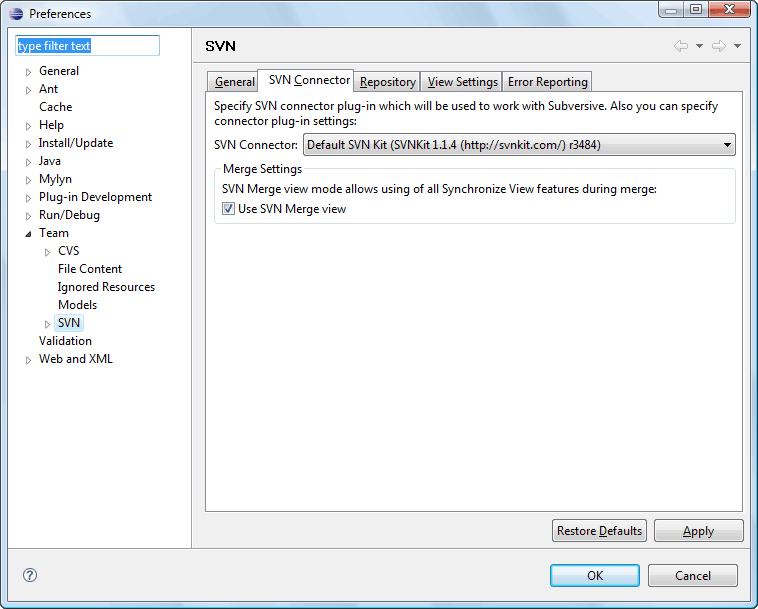
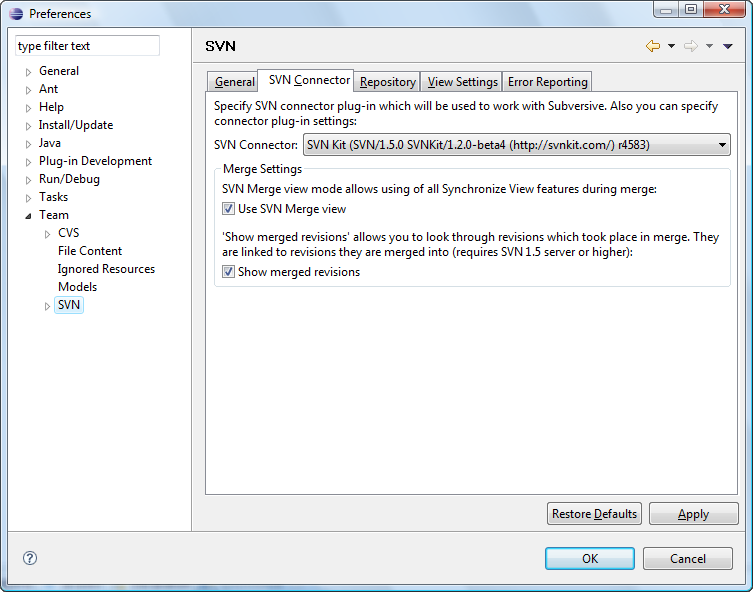
Update help according to plug-in changes (bug 225568) https://bugs.eclipse.org/bugs/show_bug.cgi?id=225568
git-svn-id: https://dev.eclipse.org/svnroot/technology/org.eclipse.subversive/trunk@19876 ee007c2a-0a25-0410-9ab9-bf268980928c

Changed region(s): [[0.0, 0.0, 1.0, 1.0], [0.5193, 0.973, 0.6414, 1.0]]

diff --git a/org.eclipse.team.svn.help/teamSupport/merge_dialog.html b/org.eclipse.team.svn.help/teamSupport/merge_dialog.html
@@ -18,35 +18,12 @@
 		</tr>
 	</table>
 <h2>SVN Merge Dialog</h2>
-	<p>This dialog appears when the user clicks on <i>'Team>Merge...'</i> menu item in the pop-up menu of the resource linked with the repository location, <i>'Merge...'</i> menu item of the <i>'SVN main menu group'</i> or on the <i>'Merge...'</i> button on the <i>'SVN Toolbar'</i>. There are Simple and Advanced merge modes. In simple mode the user can merge his local version with some remote one. And in advance mode user can merge his local copy with resources from different URLs. The merge operation in both modes also can be performed with some rage of revisions.</p>
-	<p>This is how the dialog in the Simple mode looks like:</p>
-	<img border = "0" src="../images/merge_simple.png" alt="Merge dialog in a simple mode"/>
-	<br/>
-	<br/>
-	<table cellpadding="5" cellspacing="0" border="1" width="100%">
-		<tr>
-			<td class="header" align ="center" valign="center">Option</td>
-			<td class="header" align ="center" valign="center">Description</td>
-			<td class="header" align ="center" valign="center">Default</td>
-		</tr>
-		<tr>
-			<td align ="center" valign="center">URL</td>
-			<td align ="center" valign="center">Specifies the remote resource location</td>
-			<td align ="center" valign="center">'blank'</td>
-		</tr>
-		<tr>
-			<td align ="center" valign="center">Start revision</td>
-			<td align ="center" valign="center">Specifies the minimum merge range revision number.</td>
-			<td align ="center" valign="center">Head</td>
-		</tr>
-		<tr>
-			<td align ="center" valign="center">Stop revision</td>
-			<td align ="center" valign="center">Specifies the maximum merge range revision number.</td>
-			<td align ="center" valign="center">Head</td>
-		</tr>
-	</table>
-	<p>This is how the dialog in the Advance mode looks like:</p>
-	<img border = "0" src="../images/merge_advance.png" alt="Merge dialog in an advance mode"/>
+	<p>This dialog appears when the user clicks on <i>'Team>Merge...'</i> menu item in the pop-up menu of the resource linked with the repository location, <i>'Merge...'</i> menu item of the <i>'SVN main menu group'</i> or on the <i>'Merge...'</i> button on the <i>'SVN Toolbar'</i>.
+	It's a known fact that the merge functionality differs for SVN 1.4 and SVN 1.5, so the different dialogs are used. The difference is described below.</p>
+	<p><b>Common of SVN 1.4 and SVN 1.5 merges:</b><br/>
+	The common part of the different SVN versions' merge is the '2 URL' merge mode. It allows you to merge the changes between two resources from different URLs simply
+	specifying the appropriate revisions of them. The screen shot of the dialog in '2 URL' mode is shown below:</p>
+	<img border = "0" src="../images/merge_2url.png" alt="'2 URL' merge mode"/>
 	<br/>
 	<br/>
 	<table cellpadding="5" cellspacing="0" border="1" width="100%">
@@ -79,6 +56,113 @@
 			<td align ="center" valign="center">Ignore Ancestry</td>
 			<td align ="center" valign="center">Specifies if Subversion&reg; should ignore the ancestry of resources while merging.</td>
 			<td align ="center" valign="center">Disabled</td>
+		</tr>
+		<tr>
+			<td align ="center" valign="center">Depth</td>
+			<td align ="center" valign="center">Specifies the depth to be covered by merge.</td>
+			<td align ="center" valign="center">Working copy</td>
+		</tr>
+	</table>
+	<br/>
+	<p><b>SVN 1.4 specific merge:</b><br/>The 'One URL' merge in SVN 1.4 is performed by blending the differences between two revision of the same resource to the working copy.
+	this is how the dialog looks like then:</p>
+	<img border = "0" src="../images/merge_url_14.png" alt="'One URL' merge in SVN 1.4"/>
+	<br/>
+	<br/>
+	<table cellpadding="5" cellspacing="0" border="1" width="100%">
+		<tr>
+			<td class="header" align ="center" valign="center">Option</td>
+			<td class="header" align ="center" valign="center">Description</td>
+			<td class="header" align ="center" valign="center">Default</td>
+		</tr>
+		<tr>
+			<td align ="center" valign="center">URL</td>
+			<td align ="center" valign="center">Specifies the remote resource location</td>
+			<td align ="center" valign="center">'blank'</td>
+		</tr>
+		<tr>
+			<td align ="center" valign="center">Start revision</td>
+			<td align ="center" valign="center">Specifies the minimum merge range revision number.</td>
+			<td align ="center" valign="center">Head</td>
+		</tr>
+		<tr>
+			<td align ="center" valign="center">Stop revision</td>
+			<td align ="center" valign="center">Specifies the maximum merge range revision number.</td>
+			<td align ="center" valign="center">Head</td>
+		</tr>
+		<tr>
+			<td align ="center" valign="center">Ignore Ancestry</td>
+			<td align ="center" valign="center">Specifies if Subversion&reg; should ignore the ancestry of resources while merging.</td>
+			<td align ="center" valign="center">Disabled</td>
+		</tr>
+		<tr>
+			<td align ="center" valign="center">Depth</td>
+			<td align ="center" valign="center">Specifies the depth to be covered by merge.</td>
+			<td align ="center" valign="center">Working copy</td>
+		</tr>
+	</table>
+	<p><b>SVN 1.5 specific merge:</b><br/>While performing 'One URL' merge in SVN 1.5 the user can not only select start and stop revisions, but
+	exact revision ranges to be used by the merge. The merge can be made for the whole revision range of the resource, from the copy time or the range
+	can be selected manually in the 'Revision Selection' dialog as displayed below:</p>
+	<img border = "0" src="../images/revision_selection.png" alt="'Revision Selection' dialog"/>
+	<br/>
+	<p>In such mode it's impossible to determine if the merge is reversed, so the checkbox was added to let the user specify this manually. The dialog in 'One URL' mode for SVN 1.5 looks like this:</p>
+	<img border = "0" src="../images/merge_url_15.png" alt="'One URL' merge in SVN 1.5"/>
+	<br/>
+	<br/>
+	<table cellpadding="5" cellspacing="0" border="1" width="100%">
+		<tr>
+			<td class="header" align ="center" valign="center">Option</td>
+			<td class="header" align ="center" valign="center">Description</td>
+			<td class="header" align ="center" valign="center">Default</td>
+		</tr>
+		<tr>
+			<td align ="center" valign="center">URL</td>
+			<td align ="center" valign="center">Specifies the remote resource location</td>
+			<td align ="center" valign="center">'blank'</td>
+		</tr>
+		<tr>
+			<td align ="center" valign="center">Revisions</td>
+			<td align ="center" valign="center">Specifies revision range to be used in merge.</td>
+			<td align ="center" valign="center">Start from copy</td>
+		</tr>
+		<tr>
+			<td align ="center" valign="center">Reverse</td>
+			<td align ="center" valign="center">Specifies if the reverse merge should be performed.</td>
+			<td align ="center" valign="center">Disabled</td>
+		</tr>
+		<tr>
+			<td align ="center" valign="center">Ignore Ancestry</td>
+			<td align ="center" valign="center">Specifies if Subversion&reg; should ignore the ancestry of resources while merging.</td>
+			<td align ="center" valign="center">Disabled</td>
+		</tr>
+		<tr>
+			<td align ="center" valign="center">Depth</td>
+			<td align ="center" valign="center">Specifies the depth to be covered by merge.</td>
+			<td align ="center" valign="center">Working copy</td>
+		</tr>
+	</table>
+	<br/>
+	<p>The 'Reintegrate' mode is used to allow the Subversion to merge from the branch the changes skipping the ones the same for the
+	version you are merging into and the branch you are merging from. This is how the dialog for 'Reintegrate' mode looks like:</p>
+	<img border = "0" src="../images/reintegrate.png" alt="'Reintegrate' merge in SVN 1.5"/>
+	<br/>
+	<br/>
+	<table cellpadding="5" cellspacing="0" border="1" width="100%">
+		<tr>
+			<td class="header" align ="center" valign="center">Option</td>
+			<td class="header" align ="center" valign="center">Description</td>
+			<td class="header" align ="center" valign="center">Default</td>
+		</tr>
+		<tr>
+			<td align ="center" valign="center">URL</td>
+			<td align ="center" valign="center">Specifies the remote resource location</td>
+			<td align ="center" valign="center">'blank'</td>
+		</tr>
+		<tr>
+			<td align ="center" valign="center">Revision</td>
+			<td align ="center" valign="center">Specifies revision to merge to.</td>
+			<td align ="center" valign="center">Head Revision</td>
 		</tr>
 	</table>
 	<p>With the <i>'Preview'</i> button the user can inspect the consequences of the merge operation.</p>

diff --git a/org.eclipse.team.svn.help/preferences/pref_svn.html b/org.eclipse.team.svn.help/preferences/pref_svn.html
@@ -52,12 +52,6 @@
 				<td class="header" align ="center" valign="center">Default</td>
 			</tr>
 			<tr>
-				<td align ="center" valign="center">Detect deleted projects before update</td>
-				<td align ="center" valign="center">Specifies if the plug-in should detect if the project the user is trying to update have been
-				removed from the repository.</td>
-				<td align ="center" valign="center">Enabled</td>
-			</tr>
-			<tr>
 				<td align ="center" valign="center">Check the new resources in the commit dialog</td>
 				<td align ="center" valign="center">Specifies if the plug-in should check the new resources in the commit dialog.</td>
 				<td align ="center" valign="center">Enabled</td>
@@ -99,8 +93,13 @@
 				<td align ="center" valign="center">Subversive Default</td>
 			</tr>
 			<tr>
-				<td align ="center" valign="center">Use SVN Merge View</td>
+				<td align ="center" valign="center">Use SVN Merge view</td>
 				<td align ="center" valign="center">When chosen Subversive allows to use Synchronize View features during the merging.</td>
+				<td align ="center" valign="center">Enabled</td>
+			</tr>
+			<tr>
+				<td align ="center" valign="center">Show merged revisions</td>
+				<td align ="center" valign="center">When chosen Subversive show revisions, which took part in the merges, while viewing resource history.</td>
 				<td align ="center" valign="center">Disabled</td>
 			</tr>
 		</table><br/>
@@ -148,6 +147,11 @@
 				<td align ="center" valign="center">tags</td>
 			</tr>
 			<tr>
+				<td align ="center" valign="center">Show resources linked with svn:externals</td>
+				<td align ="center" valign="center">When enabled the resources linked as externals are shown in Repository Tree and Repository Browser.</td>
+				<td align ="center" valign="center">Enabled</td>
+			</tr>
+			<tr>
 				<td align ="center" valign="center">Use '.project' project name for the working copy instead of repository folder name</td>
 				<td align ="center" valign="center">When enabled uses the local project name from '.project'. Disabling improves check out performance.</td>
 				<td align ="center" valign="center">Enabled</td>
@@ -192,18 +196,8 @@
 				<td class="header" align ="center" valign="center">Default</td>
 			</tr>
 			<tr>
-				<td align ="center" valign="center">Show synchronize info contiguous</td>
+				<td align ="center" valign="center">Show synchronize info incrementally</td>
 				<td align ="center" valign="center">Specifies if the synchronization info will be get in series (Enabled) or in whole (Disabled).</td>
-				<td align ="center" valign="center">Enabled</td>
-			</tr>
-			<tr>
-				<td align ="center" valign="center">Show multi line comment view</td>
-				<td align ="center" valign="center">Allows plug-in to show 'multi line comment view' in a 'History View'.</td>
-				<td align ="center" valign="center">Enabled</td>
-			</tr>
-			<tr>
-				<td align ="center" valign="center">Show Affected Path View</td>
-				<td align ="center" valign="center">Allows plug-in to show paths where changes have been made.</td>
 				<td align ="center" valign="center">Enabled</td>
 			</tr>
 			<tr>
@@ -212,9 +206,9 @@
 				<td align ="center" valign="center">Enabled / 25</td>
 			</tr>
 			<tr>
-				<td align ="center" valign="center">Choose where to show SVN&reg; properties for the resource</td>
-				<td align ="center" valign="center">SVN&reg; properties for a resource are shown in a 'Properties View' or in a  'Properties Editor' depending on a selection.</td>
-				<td align ="center" valign="center">Display in 'Properties View'</td>
+				<td align ="center" valign="center">Show History View while comparison</td>
+				<td align ="center" valign="center">Specifies if the history view is shown when one of 'Compare With' actions is called.</td>
+				<td align ="center" valign="center">Enabled</td>
 			</tr>
 		</table><br/>
 		This is how <i>'View Settings'</i> tab group looks like:

diff --git a/org.eclipse.team.svn.help/teamSupport/history_view.html b/org.eclipse.team.svn.help/teamSupport/history_view.html
@@ -19,7 +19,9 @@
 		</tr>
 	</table>
 <h2>SVN History View</h2>
-	<p><a class="command-link" href='javascript:executeCommand("org.eclipse.ui.views.showView(org.eclipse.ui.views.showView.viewId=org.eclipse.team.ui.GenericHistoryView)")'><img src="PLUGINS_ROOT/org.eclipse.help/command_link.png"/><i>'SVN History View'</i></a> provides information on a history of resource change. The user can simply watch the change history, open editor on a specified revision, load a revision, revert the workspace to the revision, show annotations and view multiline comments and affected paths, if allowed in preferences.</p>
+	<p><a class="command-link" href='javascript:executeCommand("org.eclipse.ui.views.showView(org.eclipse.ui.views.showView.viewId=org.eclipse.team.ui.GenericHistoryView)")'><img src="PLUGINS_ROOT/org.eclipse.help/command_link.png"/><i>'SVN History View'</i></a>
+	provides information on a history of resource change. The user can simply watch the change history, open editor on a specified revision, load a revision, revert the workspace to the revision. If the Subversion server and client versions used is 1.5 then the
+	revisions, which took part in the previous merges of this resource are shown as children of the main history nodes. The user can group the log messages by date, select if to show remote history, local history or both.</p>
 	<p>This is how <i>'SVN History View'</i> looks like:</p>
 	<img border = "0" src="../images/history_view.png" alt="SVN History View"/>
 	<p><b><i>Columns</i></b></p>

diff --git a/org.eclipse.team.svn.help/teamSupport/SVNaction/merge.html b/org.eclipse.team.svn.help/teamSupport/SVNaction/merge.html
@@ -37,8 +37,7 @@
 			</td>
 		</tr>
 	</table>
-	<p>If the option of interactive merge is enabled then the merge results preview is shown in the <i>'SVN Merge View'</i>. The incoming and
-	maybe conflicting changes are shown there.</p>
+	<p>If the option of interactive merge is enabled then the merge results are shown in the <i>'SVN Merge View'</i>. The changes that can't be done by Subversion while merge are also shown in this view and can be merged or skipped manually.</p>
 	<img border="0" src="../../images/merge_view.png" alt="Related topics"/></br>
 	<img border="0" src="../../images/rel_tops.png" alt="Related topics"/>
 	<br/>
